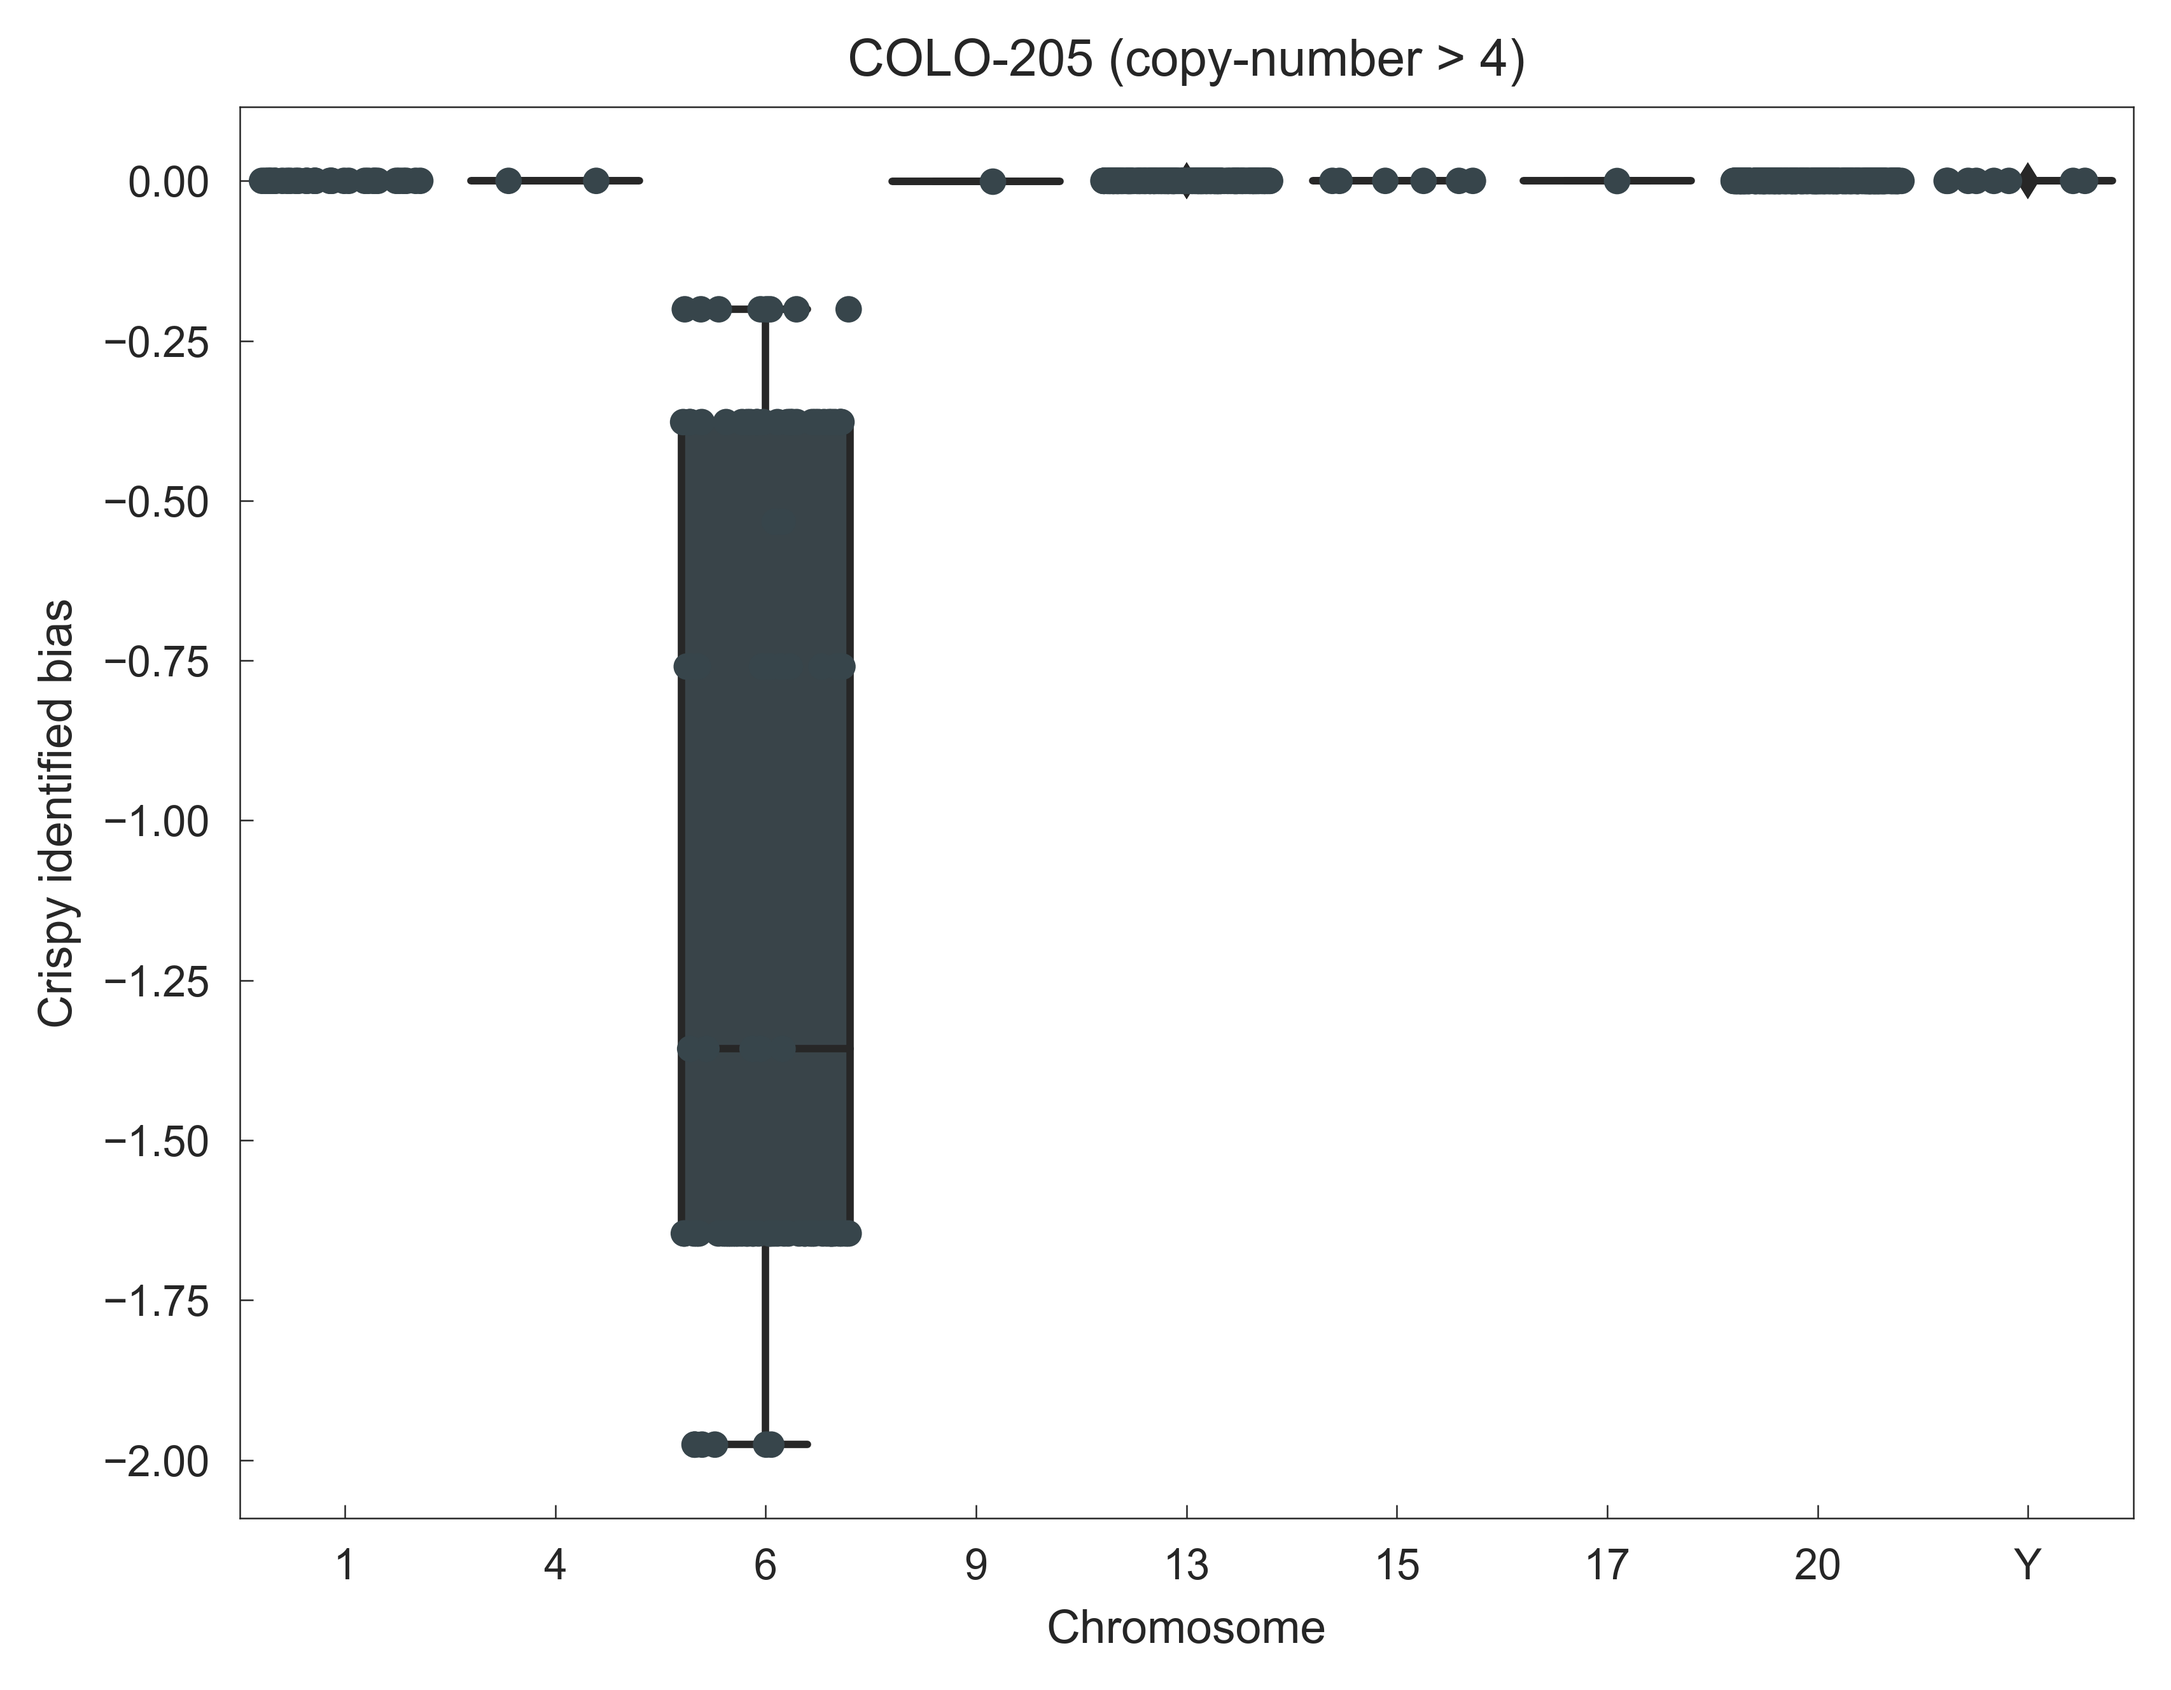
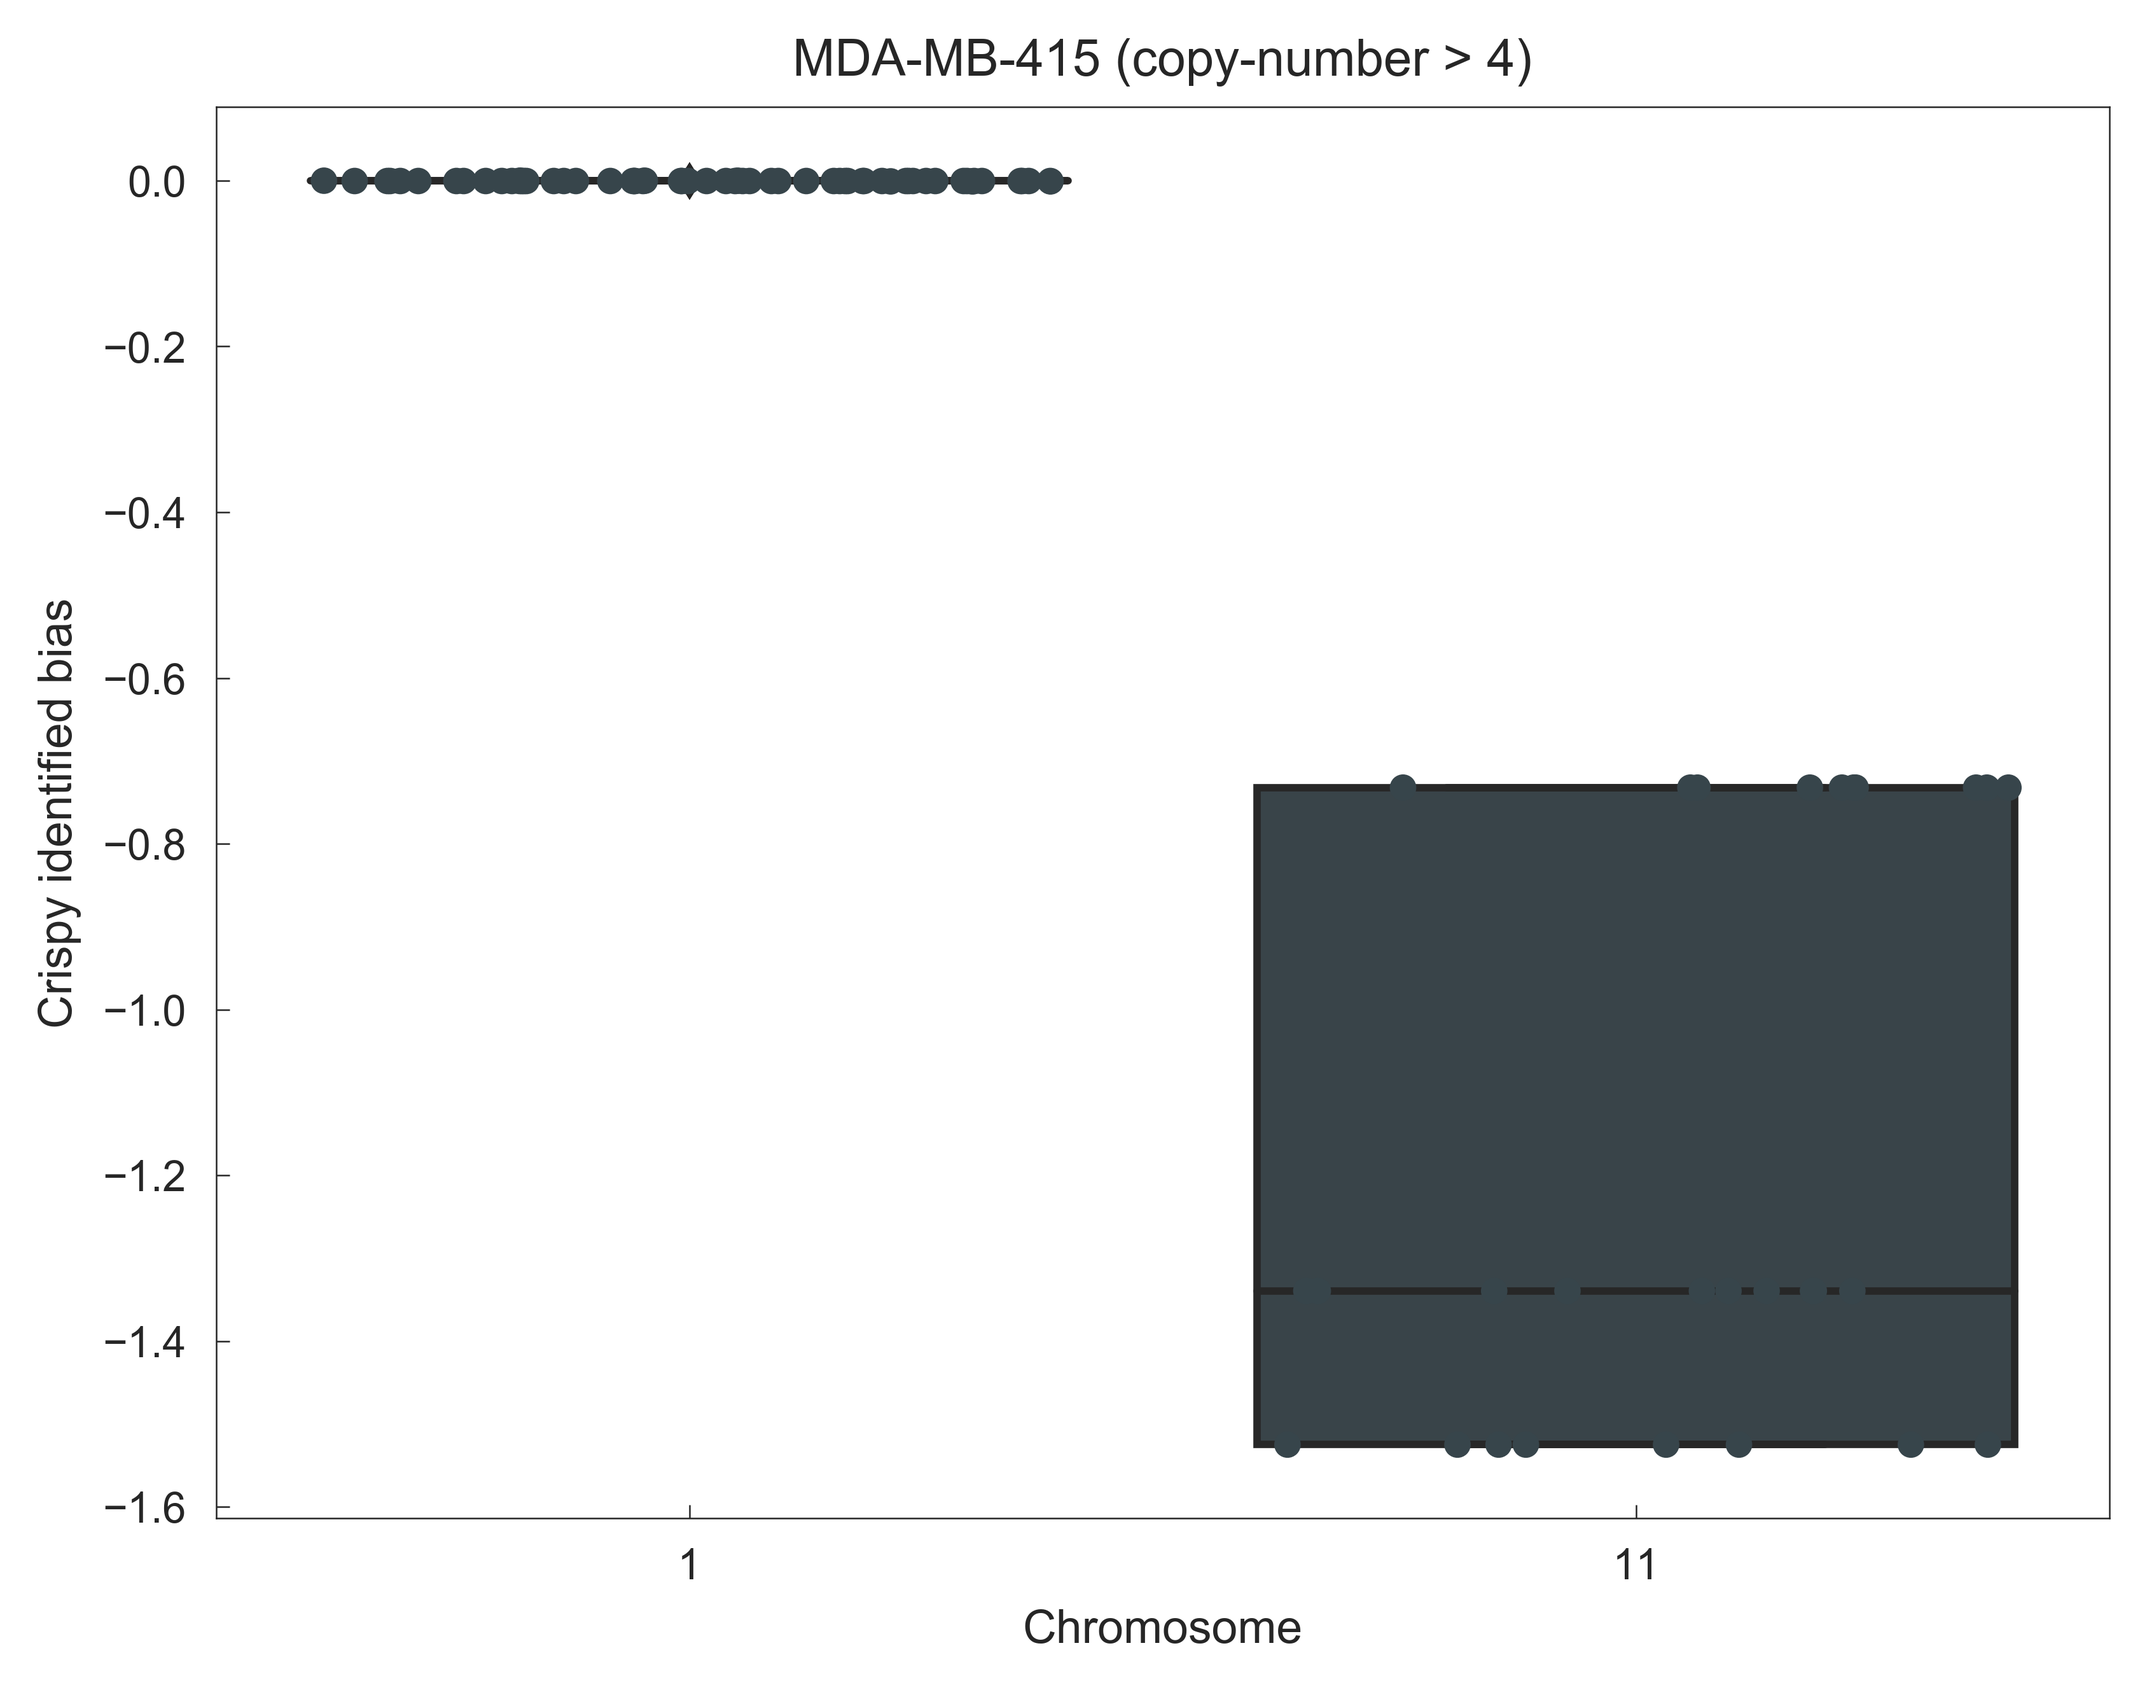
Karyotype analysis;Synthetic lethal

diff --git a/scripts/synthetic_lethal.py b/scripts/synthetic_lethal.py
@@ -1,0 +1,120 @@
+#!/usr/bin/env python
+# Copyright (C) 2017 Emanuel Goncalves
+
+import sys
+import pickle
+import numpy as np
+import pandas as pd
+import itertools as it
+import seaborn as sns
+import matplotlib.pyplot as plt
+from limix.stats import qvalues
+from limix.qtl import qtl_test_lmm
+from scipy.optimize import curve_fit
+from matplotlib.gridspec import GridSpec
+from limix_core.util.preprocess import gaussianize
+from sklearn.metrics.regression import explained_variance_score
+
+
+# - Import data-sets
+# Samplesheet
+ss = pd.read_csv('data/gdsc/samplesheet.csv', index_col=0).dropna(subset=['GDSC1'])
+
+# sgRNA library
+sglib = pd.read_csv('data/gdsc/crispr/KY_Library_v1.1_annotated.csv', index_col=0).dropna(subset=['GENES'])
+
+# CRISPR
+crispr = pd.read_csv('data/gdsc/crispr/crispy_fold_change.csv', index_col=0)
+crispr = crispr.groupby(sglib.loc[crispr.index, 'GENES']).mean().dropna()
+
+# Gene-expression
+gexp = pd.read_csv('data/gdsc/gene_expression/merged_voom_preprocessed.csv', index_col=0)
+
+# - Overlap
+samples = list(set(crispr).intersection(gexp))
+crispr, gexp = crispr[samples], gexp[samples]
+print(crispr.shape, gexp.shape)
+
+
+# - Filter
+# CRISPR
+crispr_fc_thres = (crispr.abs() > 1.5).sum(1)
+crispr = crispr.loc[crispr_fc_thres >= 5]
+
+# Gexp
+iqr_l, iqr_u = gexp.unstack().quantile(0.1), gexp.unstack().quantile(0.9)
+gexp = gexp.loc[((gexp < iqr_l) | (gexp > iqr_u)).sum(1) >= 5]
+print(crispr.shape, gexp.shape)
+
+
+# -
+# Covariates
+covars = pd.get_dummies(ss.loc[samples, ['GDSC1', 'MSI', 'medium', 'growth']])
+
+# Build matrices
+y, x, k = crispr[samples].T, gexp[samples].T, covars.dot(covars.T).astype(float)
+
+# Normalise
+x = pd.DataFrame(gaussianize(x.values), index=x.index, columns=x.columns)
+
+# Linear regression
+lmm = qtl_test_lmm(pheno=y.values, snps=x.values, K=k.values)
+
+# Extract info
+c_gene, g_gene = zip(*list(it.product(y.columns, x.columns)))
+qvalue = qvalues(lmm.getPv())
+
+# Build pandas data-frame
+lmm_df = pd.DataFrame({
+    'crispr': c_gene,
+    'gexp': g_gene,
+    'beta': lmm.getBetaSNP().ravel(),
+    'pvalue': lmm.getPv().ravel(),
+    'qvalue': qvalue.ravel()
+}).sort_values('qvalue')
+print(lmm_df.head(50))
+
+
+# - Plot
+# Fit function
+def fun(x, a, b, c):
+    return a + b * x + c * (x ** 2)
+
+# Plot
+gpairs = [(x, y) for x, y in lmm_df.head(50)[['gexp', 'crispr']].values]
+
+sns.set(style='ticks', context='paper', font_scale=0.75, rc={'axes.linewidth': .3, 'xtick.major.width': .3, 'ytick.major.width': .3, 'xtick.major.size': 2.5, 'ytick.major.size': 2.5, 'xtick.direction': 'in', 'ytick.direction': 'in'})
+gs, pos = GridSpec(10, 5, hspace=.5, wspace=.5), 0
+# gx, gy = 'FAM50B', 'FAM50A'
+for gx, gy in gpairs:
+    ax = plt.subplot(gs[pos])
+
+    # Get measurements
+    x, y = gexp.loc[gx, samples], crispr.loc[gy, samples]
+
+    # Fit curve
+    popt, pcov = curve_fit(fun, x, y, method='trf')
+    y_ = fun(x, *popt)
+
+    # Variance explained
+    vexp = explained_variance_score(y, y_)
+
+    # Plot
+    plot_df = pd.DataFrame({
+        'x': x, 'y': y, 'y_': y_
+    }).sort_values('x')
+
+    ax.scatter(plot_df['x'], plot_df['y'], c='#37454B', alpha=.8, edgecolors='white', linewidths=.3, s=20, label='measurements')
+    ax.plot(plot_df['x'], plot_df['y_'], ls='--', c='#F2C500', label='fit')
+
+    ax.axhline(0, lw=.3, ls='-', color='gray', alpha=.5)
+
+    ax.set_xlabel('%s gene-expression' % gx)
+    ax.set_ylabel('%s CRISPR' % gy)
+    ax.set_title('y = {:.2f} + {:.2f} * x + {:.2f} * x**2'.format(*popt))
+
+    pos += 1
+
+plt.gcf().set_size_inches(2.5 * 5, 2.5 * 10)
+plt.savefig('reports/nlfit_scatters.png', bbox_inches='tight', dpi=600)
+plt.close('all')

diff --git a/scripts/cnv_effect_var.py b/scripts/cnv_effect_var.py
@@ -44,7 +44,7 @@ print(len(genes), len(samples))
 
 
 #
-sample = 'COLO-205'
+sample = 'HCC1143'
 
 df = pd.concat([
     c_gdsc[sample].rename('crispr'),
@@ -61,11 +61,12 @@ thres = 4
 plot_df = df[df['cnv'] > thres]
 sns.boxplot('chr', 'crispr', data=plot_df, order=natsorted(set(plot_df['chr'])), color=bipal_dbgd[0])
 sns.stripplot('chr', 'crispr', data=plot_df, order=natsorted(set(plot_df['chr'])), edgecolor='white', jitter=.4, color=bipal_dbgd[0])
-plt.xlabel('Chromosome')
-plt.ylabel('Crispy identified bias')
-plt.title('%s (copy-number > %d)' % (sample, thres))
-plt.savefig('reports/karyotype_bias.png', bbox_inches='tight', dpi=600)
-plt.close('all')
+plt.show()
+# plt.xlabel('Chromosome')
+# plt.ylabel('Crispy identified bias')
+# plt.title('%s (copy-number > %d)' % (sample, thres))
+# plt.savefig('reports/karyotype_bias.png', bbox_inches='tight', dpi=600)
+# plt.close('all')
 
 
 # -
